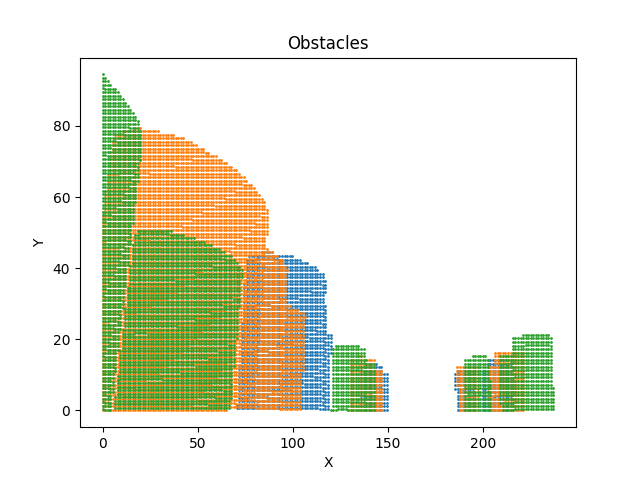
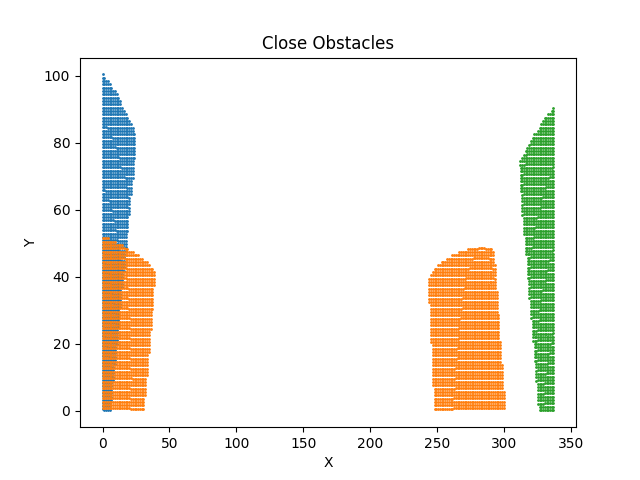
LESGO

diff --git a/cloud_driver.py b/cloud_driver.py
@@ -116,12 +116,15 @@ while (True):
         obstacles = point_cloud[(point_cloud[:, 2] != 0) & (point_cloud[:, 1] > 0)]
 
         # Remove outliers
-        
+        closest_point = np.max(obstacles[:, 2])
+        car_buffer = 20
+        close_obstacles = obstacles[obstacles[:, 2] >= closest_point - car_buffer]
+
         # Make it 2d
-        plt.scatter(obstacles[:, 0], obstacles[:, 1], s=1)
+        plt.scatter(close_obstacles[:, 0], close_obstacles[:, 1], s=1)
         plt.xlabel('X')
         plt.ylabel('Y')
-        plt.title('Obstacles')
+        plt.title('Close Obstacles')
         plt.savefig(f'pcd_images/pcd_{i}.png')
 
         # Update
